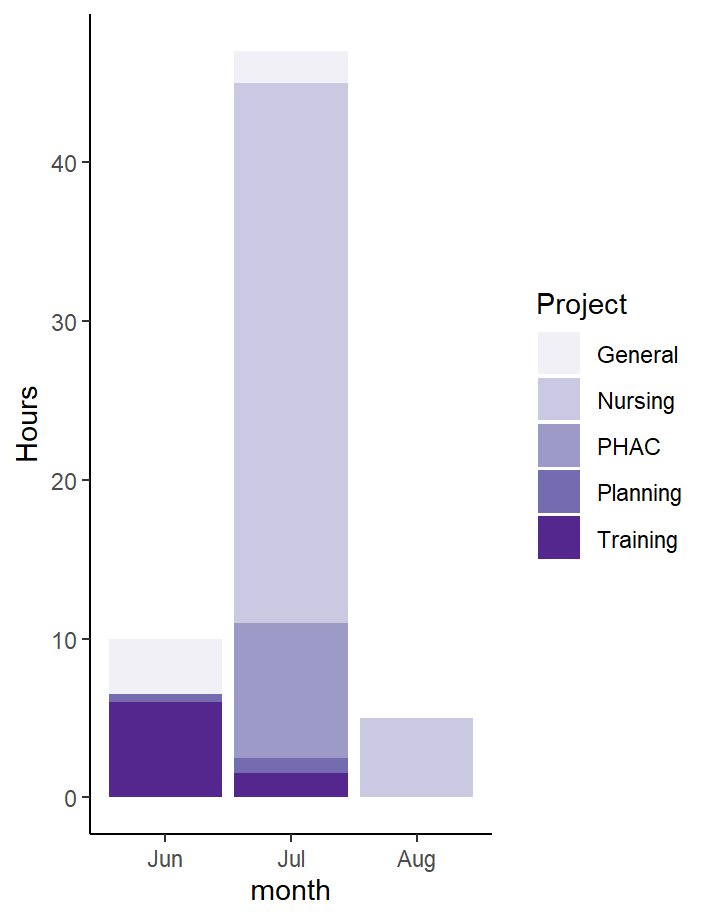
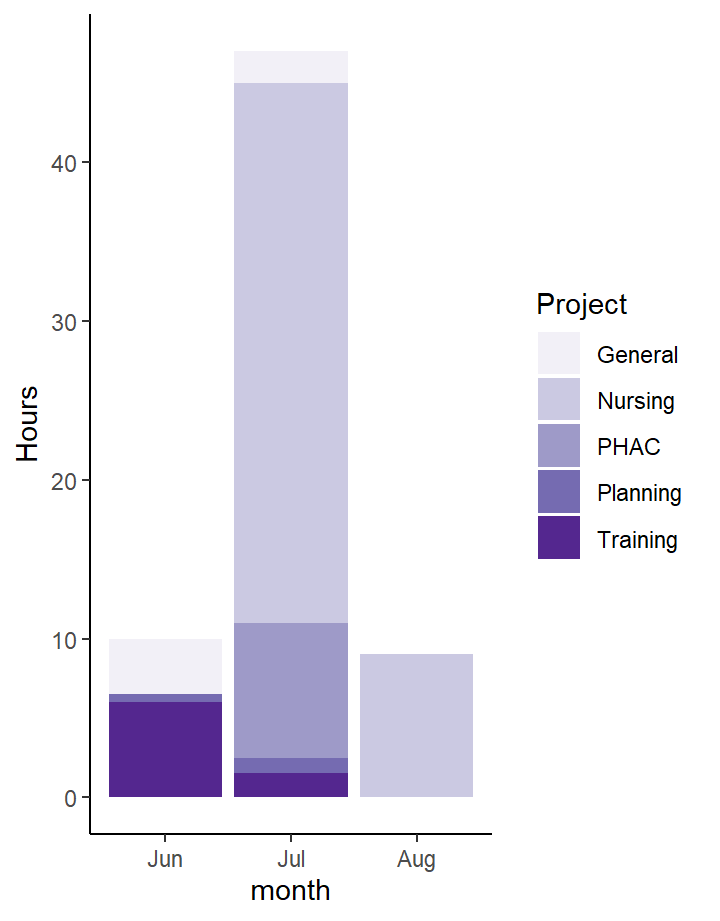
:)

Changed region(s): [[0.4889, 0.6992, 0.6722, 0.7904]]

diff --git a/docs/index.html b/docs/index.html
@@ -1915,6 +1915,20 @@ class="section level3">
 <td align="left">Making the Qualtrics survey for phase 2B</td>
 <td align="right">2</td>
 </tr>
+<tr class="even">
+<td align="left">2024-08-06</td>
+<td align="left">Tuesday</td>
+<td align="left">Nursing</td>
+<td align="left">Setting up Survey logic in qualtrics</td>
+<td align="right">2</td>
+</tr>
+<tr class="odd">
+<td align="left">2024-08-08</td>
+<td align="left">Thursday</td>
+<td align="left">Nursing</td>
+<td align="left">Making Letters of Informed Consent</td>
+<td align="right">2</td>
+</tr>
 </tbody>
 </table>
 </div>
@@ -1973,6 +1987,18 @@ class="section level3">
 </tr>
 </thead>
 <tbody>
+<tr class="odd">
+<td align="left">2024-08-08</td>
+<td align="left">Nursing</td>
+<td align="left">Making Letters of Informed Consent</td>
+<td align="right">2.0</td>
+</tr>
+<tr class="even">
+<td align="left">2024-08-06</td>
+<td align="left">Nursing</td>
+<td align="left">Setting up Survey logic in qualtrics</td>
+<td align="right">2.0</td>
+</tr>
 <tr class="odd">
 <td align="left">2024-08-05</td>
 <td align="left">Nursing</td>
